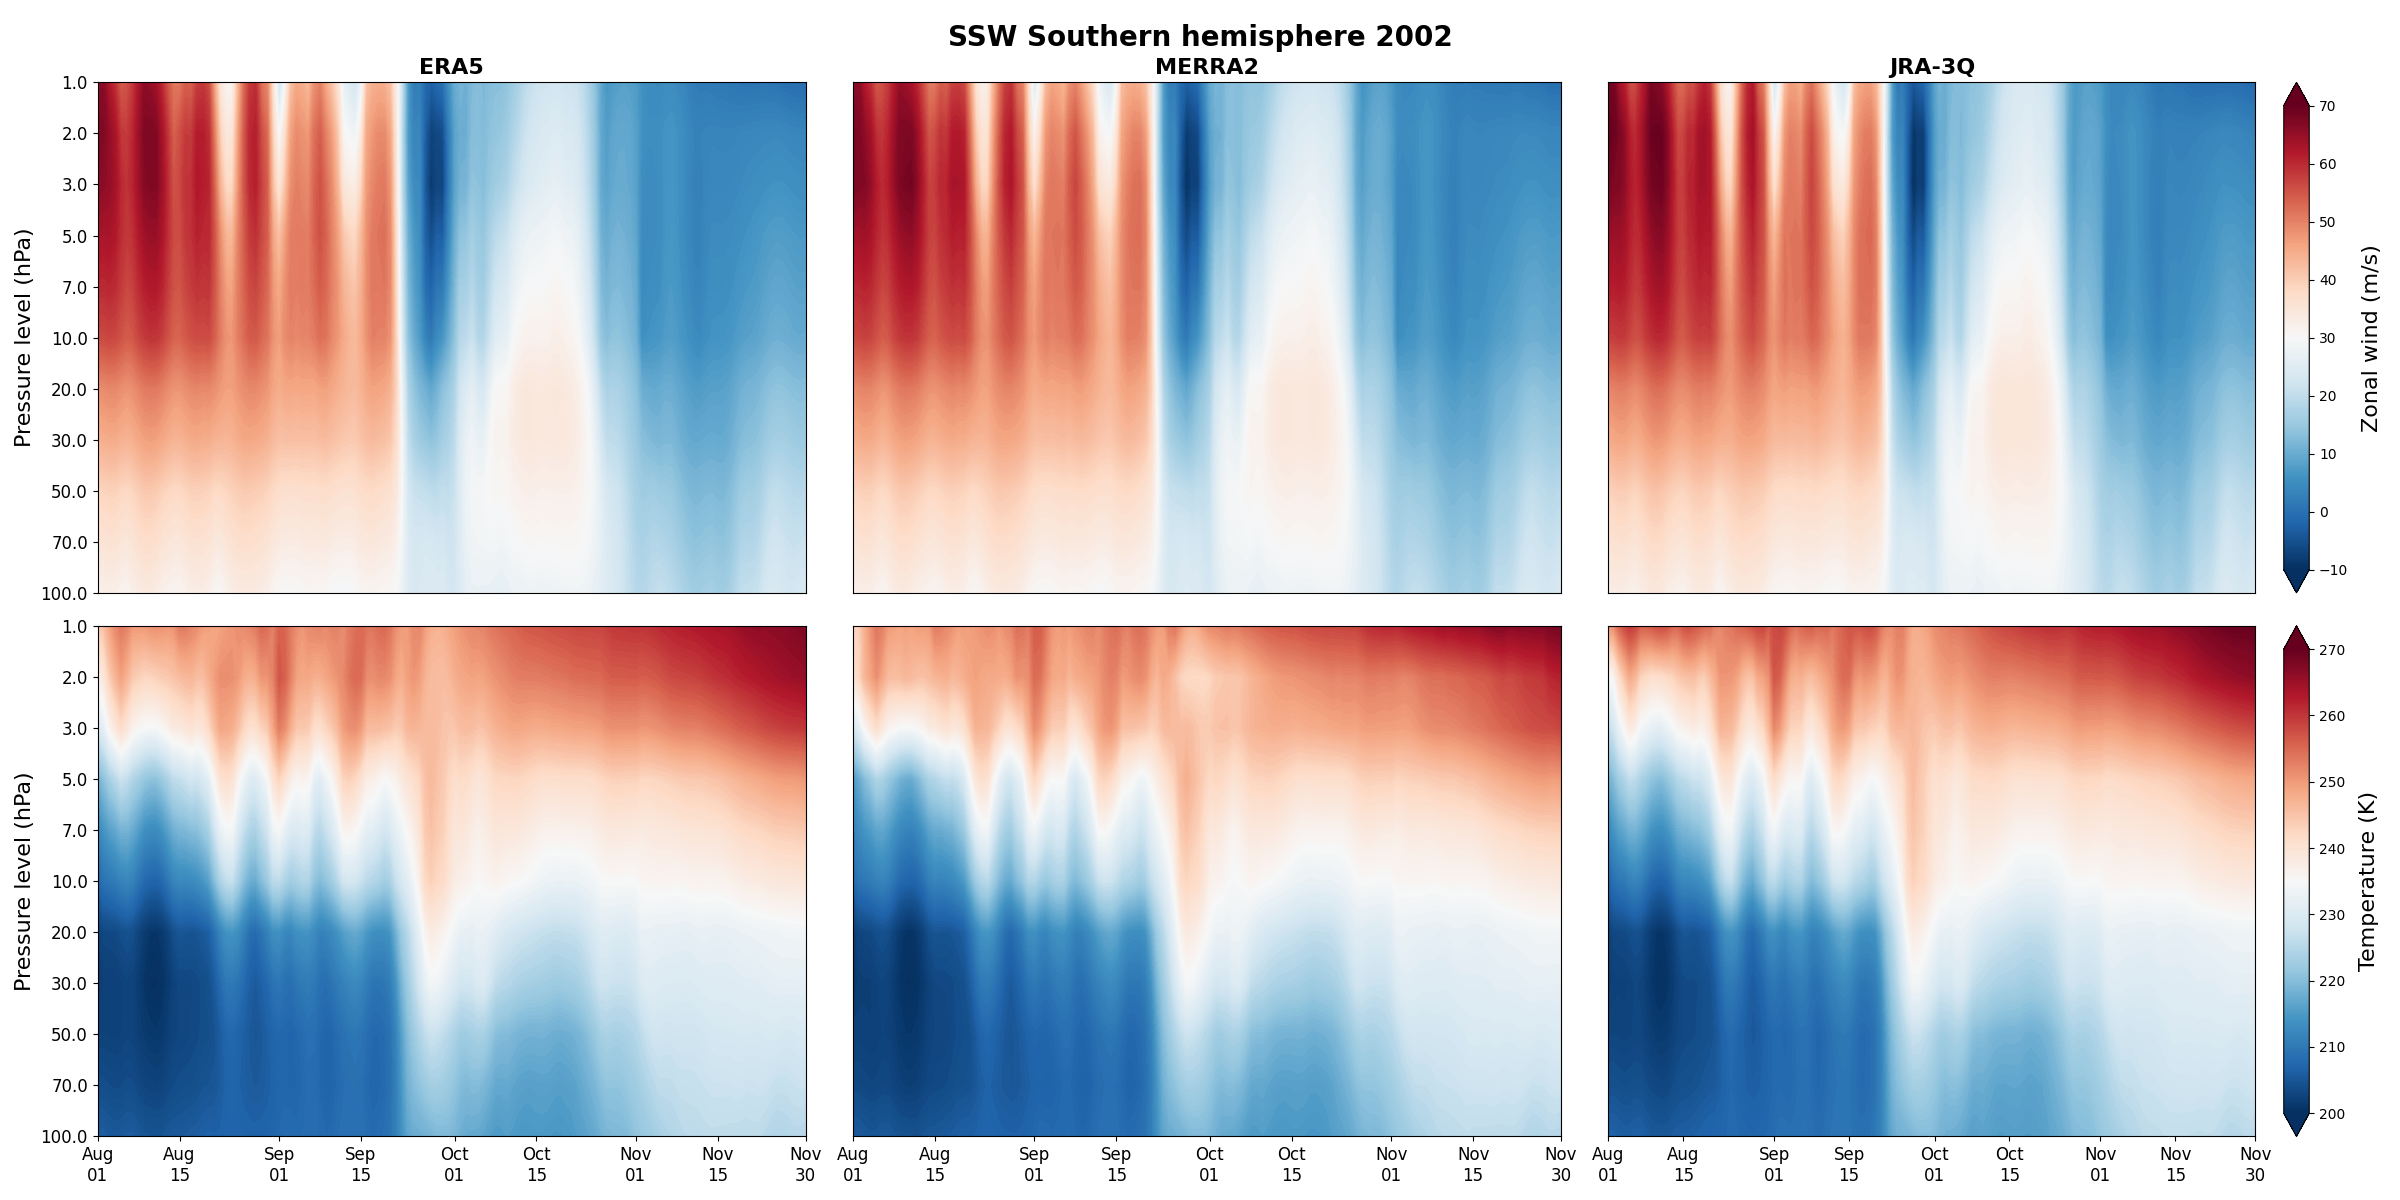
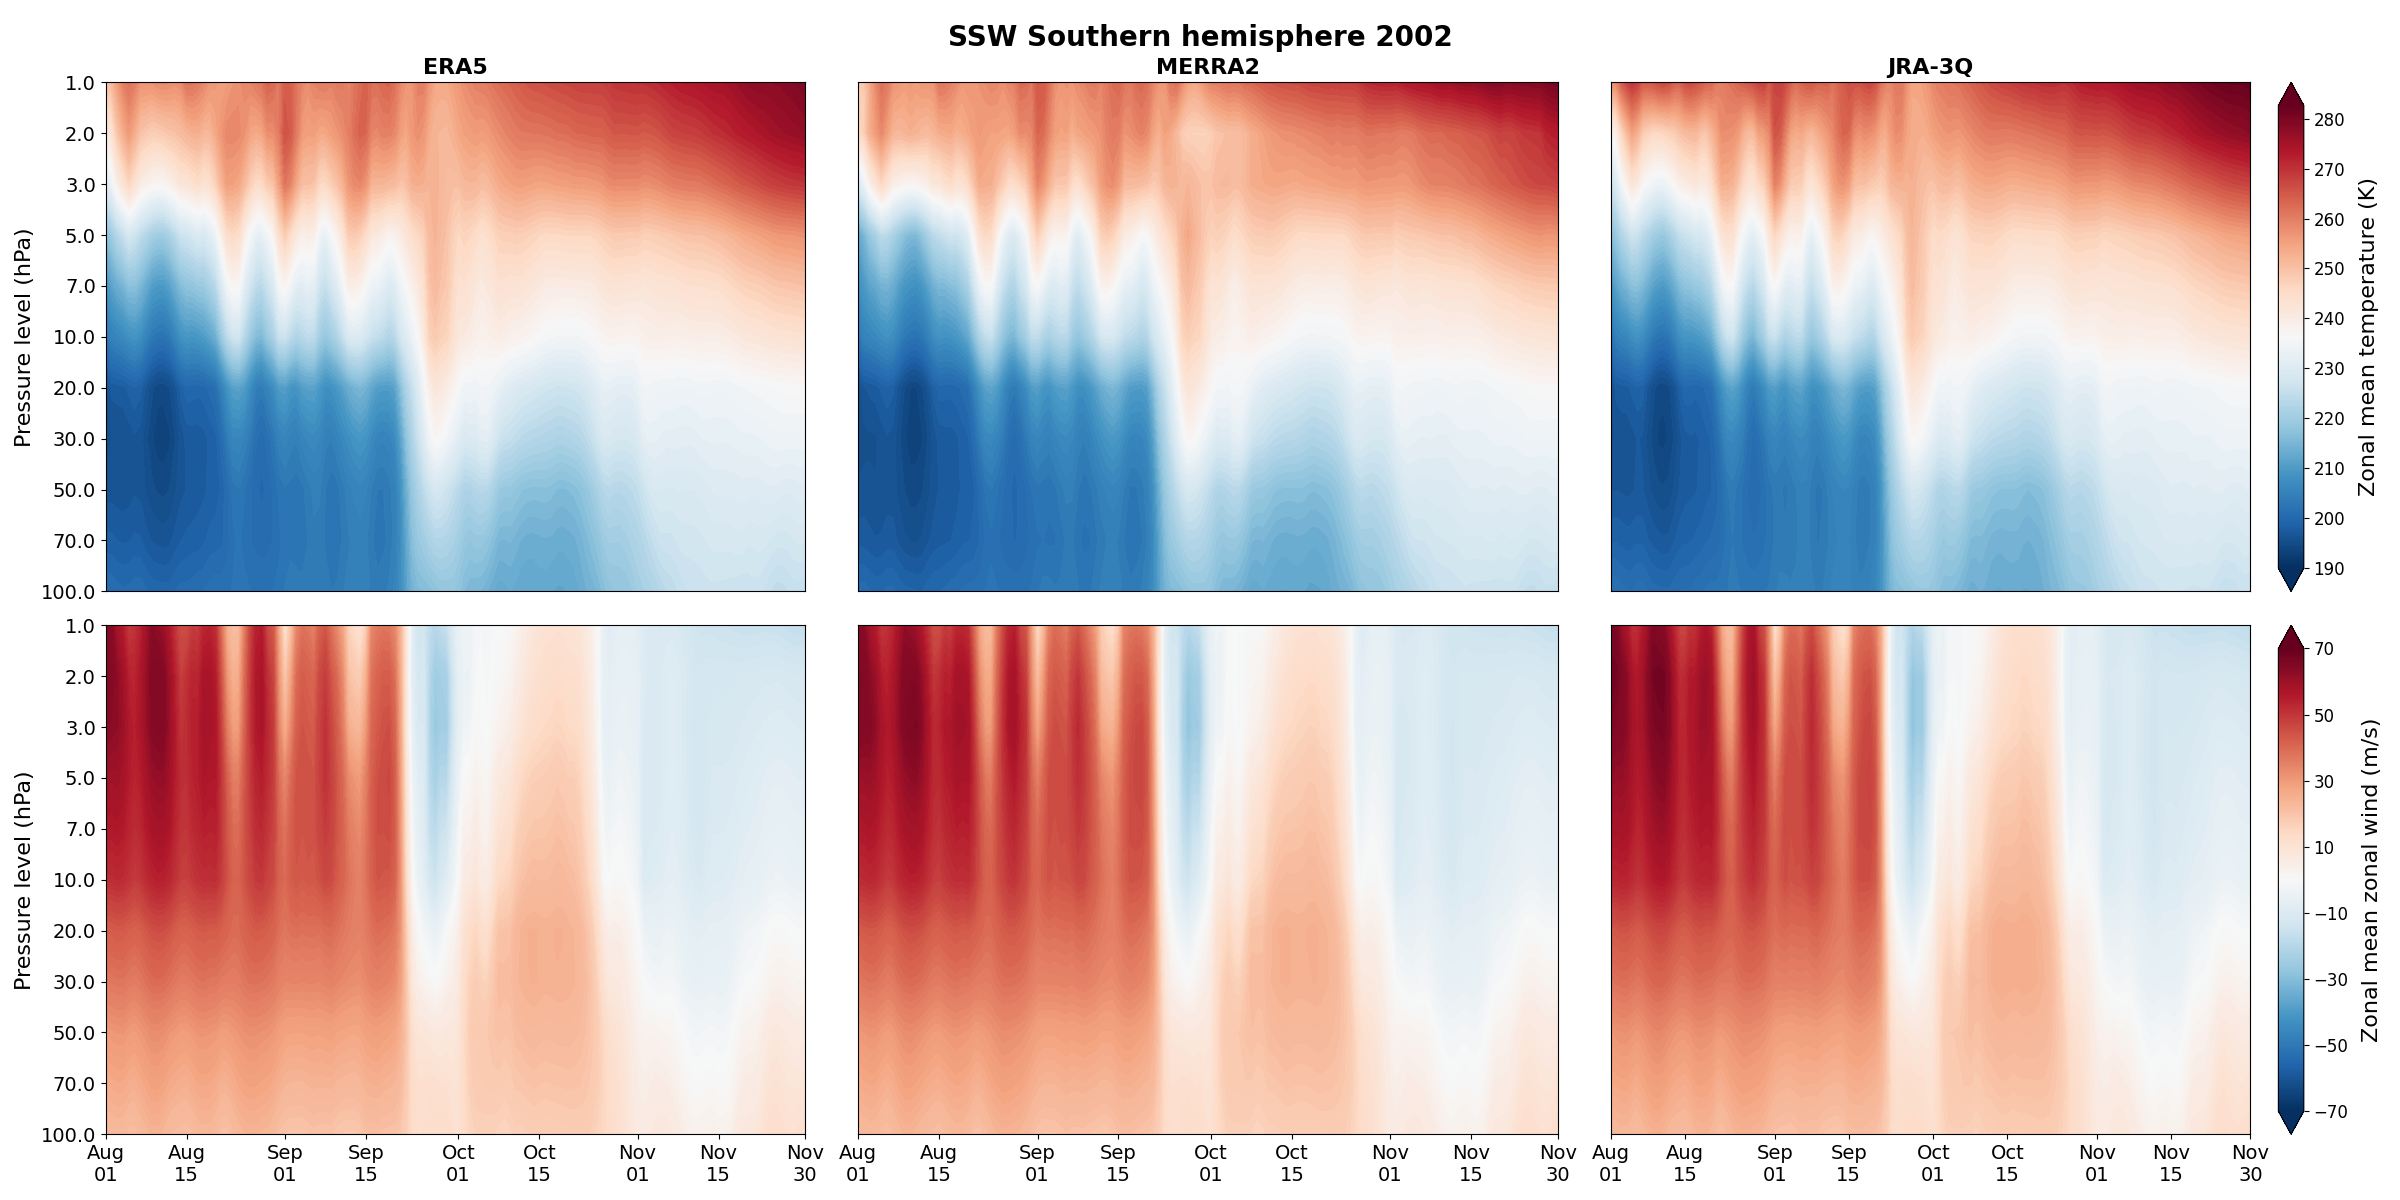
Fixed (some) errors

diff --git a/graphs.py b/graphs.py
@@ -1,13 +1,19 @@
 import numpy as np
 import matplotlib as mpl
 import matplotlib.pyplot as plt
+from matplotlib.colors import TwoSlopeNorm
 from zpracovani import *
 
 def vykresli(ax, data, title, xlabels, ylabels, vmin=None, vmax=None, cmap='RdBu_r', p=0, d=False):
-    cont = ax.contourf(np.array(data).T, cmap=cmap, vmin=vmin, vmax=vmax, levels=200)
+    if d:
+        cont = ax.contourf(np.array(data).T, cmap=cmap, vmin=(-max(abs(vmin), vmax, 4)), vmax=max(abs(vmin), vmax, 4), levels=100)
+    elif p >= 4:
+        cont = ax.contourf(np.array(data).T, cmap=cmap, vmin=(-max(abs(vmin), vmax, 70)), vmax=max(abs(vmin), vmax, 70), levels=100)
+    else:
+        cont = ax.contourf(np.array(data).T, cmap=cmap, vmin=round(int(vmin)/10)*10, vmax=vmax, levels=100)
     if p == 1 or p == 4:
         ax.set_ylabel("Pressure level (hPa)", fontsize=16)
-        ax.tick_params(axis='y', labelsize=12)
+        ax.tick_params(axis='y', labelsize=14)
         ax.set_yticks(range(len(ylabels)))
         ax.set_yticklabels(ylabels)
     else:
@@ -26,31 +32,35 @@ def vykresli(ax, data, title, xlabels, ylabels, vmin=None, vmax=None, cmap='RdBu
                 xticks.append(i)
                 xticklabels.append(format_date_label(label))
         ax.set_xticks(xticks)
-        ax.set_xticklabels(xticklabels, fontsize=12)
-    if p == 3 and not d:
-        sm = mpl.cm.ScalarMappable(norm=mpl.colors.Normalize(-10,70), cmap=cmap)
-        sm.set_array([])
-        cbar = fig.colorbar(sm, ax=ax, extend='both', orientation='vertical', fraction=0.046, pad=0.04)
-        cbar.set_label("Zonal wind (m/s)", labelpad=10, fontsize=16)
-        cbar.set_ticks([i for i in range(-10, 80, 10)])
-    if p == 3 and d:
-        sm = mpl.cm.ScalarMappable(norm=mpl.colors.Normalize(-4,1.8), cmap=cmap)
-        sm.set_array([])
-        cbar = fig.colorbar(sm, ax=ax, extend='both', orientation='vertical', fraction=0.046, pad=0.04)
-        cbar.set_label("Zonal wind (m/s)", labelpad=0.5, fontsize=16)
-        cbar.set_ticks([-4, -3.5, -3, -2.5, -2, -1.5, -1, -0.5, 0, 0.5, 1, 1.5])
+        ax.set_xticklabels(xticklabels, fontsize=14)
     if p == 6 and not d:
-        sm = mpl.cm.ScalarMappable(norm=mpl.colors.Normalize(200, 270), cmap=cmap)
+        sm = mpl.cm.ScalarMappable(norm=mpl.colors.Normalize(-max(abs(vmin), vmax, 70), max(abs(vmin), vmax, 70)), cmap=cmap)
         sm.set_array([])
         cbar = fig.colorbar(sm, ax=ax, extend='both', orientation='vertical', fraction=0.046, pad=0.04)
-        cbar.set_label("Temperature (K)", labelpad=10, fontsize=16)
-        cbar.set_ticks([i for i in range(200, 280, 10)])
+        cbar.set_label("Zonal mean zonal wind (m/s)", labelpad=10, fontsize=16)
+        cbar.set_ticks([i for i in range(-70, 80, 20)])
+        cbar.ax.tick_params(labelsize=12)
     if p == 6 and d:
-        sm = mpl.cm.ScalarMappable(norm=mpl.colors.Normalize(-4, 4.8), cmap=cmap)
+        sm = mpl.cm.ScalarMappable(norm=mpl.colors.Normalize(-max(abs(vmin), vmax, 4), max(abs(vmin), vmax, 4)), cmap=cmap)
         sm.set_array([])
         cbar = fig.colorbar(sm, ax=ax, extend='both', orientation='vertical', fraction=0.046, pad=0.04)
-        cbar.set_label("Temperature (K)", labelpad=1, fontsize=16)
+        cbar.set_label("Zonal mean temperature (K)", labelpad=10, fontsize=16)
         cbar.set_ticks([i for i in range(-4, 5)])
+        cbar.ax.tick_params(labelsize=12)
+    if p == 3 and not d:
+        sm = mpl.cm.ScalarMappable(norm=mpl.colors.Normalize(round(int(vmin)/10)*10, vmax), cmap=cmap)
+        sm.set_array([])
+        cbar = fig.colorbar(sm, ax=ax, extend='both', orientation='vertical', fraction=0.046, pad=0.04)
+        cbar.set_label("Zonal mean temperature (K)", labelpad=10, fontsize=16)
+        cbar.set_ticks([i for i in range(round(int(vmin)/10)*10, int(vmax)+1, 10)])
+        cbar.ax.tick_params(labelsize=12)
+    if p == 3 and d:
+        sm = mpl.cm.ScalarMappable(norm=mpl.colors.Normalize(-max(abs(vmin), vmax, 4), max(abs(vmin), vmax, 4)), cmap=cmap)
+        sm.set_array([])
+        cbar = fig.colorbar(sm, ax=ax, extend='both', orientation='vertical', fraction=0.046, pad=0.04)
+        cbar.set_label("Zonal mean zonal wind (m/s)", labelpad=10, fontsize=16)
+        cbar.set_ticks([i for i in range(-4, 5)])
+        cbar.ax.tick_params(labelsize=12)
     return cont
 
 eu, ti, p = euf()
@@ -83,9 +93,9 @@ axs = axs.flatten()
 
 tituly = ["ERA5", "MERRA2", "JRA-3Q", "", "", ""]
 
-data_sady = [eu_arr, mu_arr, ju, et_arr, mt_arr, jt]
-vmin_sady = [vmin_wind]*3 + [vmin_temp]*3
-vmax_sady = [vmax_wind]*3 + [vmax_temp]*3
+data_sady = [et_arr, mt_arr, jt, eu_arr, mu_arr, ju]
+vmin_sady = [vmin_temp]*3 + [vmin_wind]*3
+vmax_sady = [vmax_temp]*3 + [vmax_wind]*3
 
 pp = 0
 for ax, title, data, vmin_, vmax_ in zip(axs, tituly, data_sady, vmin_sady, vmax_sady):
@@ -102,7 +112,7 @@ axs_all = axs_all.flatten()
 
 tituly_diff_all = ["ERA5 - MERRA2", "ERA5 - JRA-3Q", "MERRA2 - JRA-3Q", "", "", ""]
 pp = 0
-data_diff_all = [eu_mu_diff, eu_ju_diff, mu_ju_diff, et_mt_diff, et_jt_diff, mt_jt_diff]
+data_diff_all = [et_mt_diff, et_jt_diff, mt_jt_diff, eu_mu_diff, eu_ju_diff, mu_ju_diff]
 vlims_diff = [np.max(np.abs(d)) for d in data_diff_all]
 
 for ax, title, data, vlim in zip(axs_all, tituly_diff_all, data_diff_all, vlims_diff):
@@ -151,9 +161,9 @@ axs_detail = axs_detail.flatten()
 
 tituly_detail = ["ERA5", "MERRA2", "JRA-3Q", "", "", ""]
 
-data_sady_detail = [detail_eu, detail_mu, detail_ju, detail_et, detail_mt, detail_jt]
-vmin_sady_detail = [detail_vmin_wind]*3 + [detail_vmin_temp]*3
-vmax_sady_detail = [detail_vmax_wind]*3 + [detail_vmax_temp]*3
+data_sady_detail = [detail_et, detail_mt, detail_jt, detail_eu, detail_mu, detail_ju]
+vmin_sady_detail = [detail_vmin_temp]*3 + [detail_vmin_wind]*3
+vmax_sady_detail = [detail_vmax_temp]*3 + [detail_vmax_wind]*3
 
 pp = 0
 for ax, title, data, vmin_, vmax_ in zip(axs_detail, tituly_detail, data_sady_detail, vmin_sady_detail, vmax_sady_detail):
@@ -170,8 +180,7 @@ axs_detail_diff = axs_detail_diff.flatten()
 
 tituly_diff_detail = ["ERA5 - MERRA2", "ERA5 - JRA-3Q", "MERRA2 - JRA-3Q", "", "", ""]
 
-data_diff_detail = [detail_eu_mu_diff, detail_eu_ju_diff, detail_mu_ju_diff,
-                    detail_et_mt_diff, detail_et_jt_diff, detail_mt_jt_diff]
+data_diff_detail = [detail_et_mt_diff, detail_et_jt_diff, detail_mt_jt_diff, detail_eu_mu_diff, detail_eu_ju_diff, detail_mu_ju_diff]
 vlims_diff_detail = [np.max(np.abs(d)) for d in data_diff_detail]
 
 pp = 0
